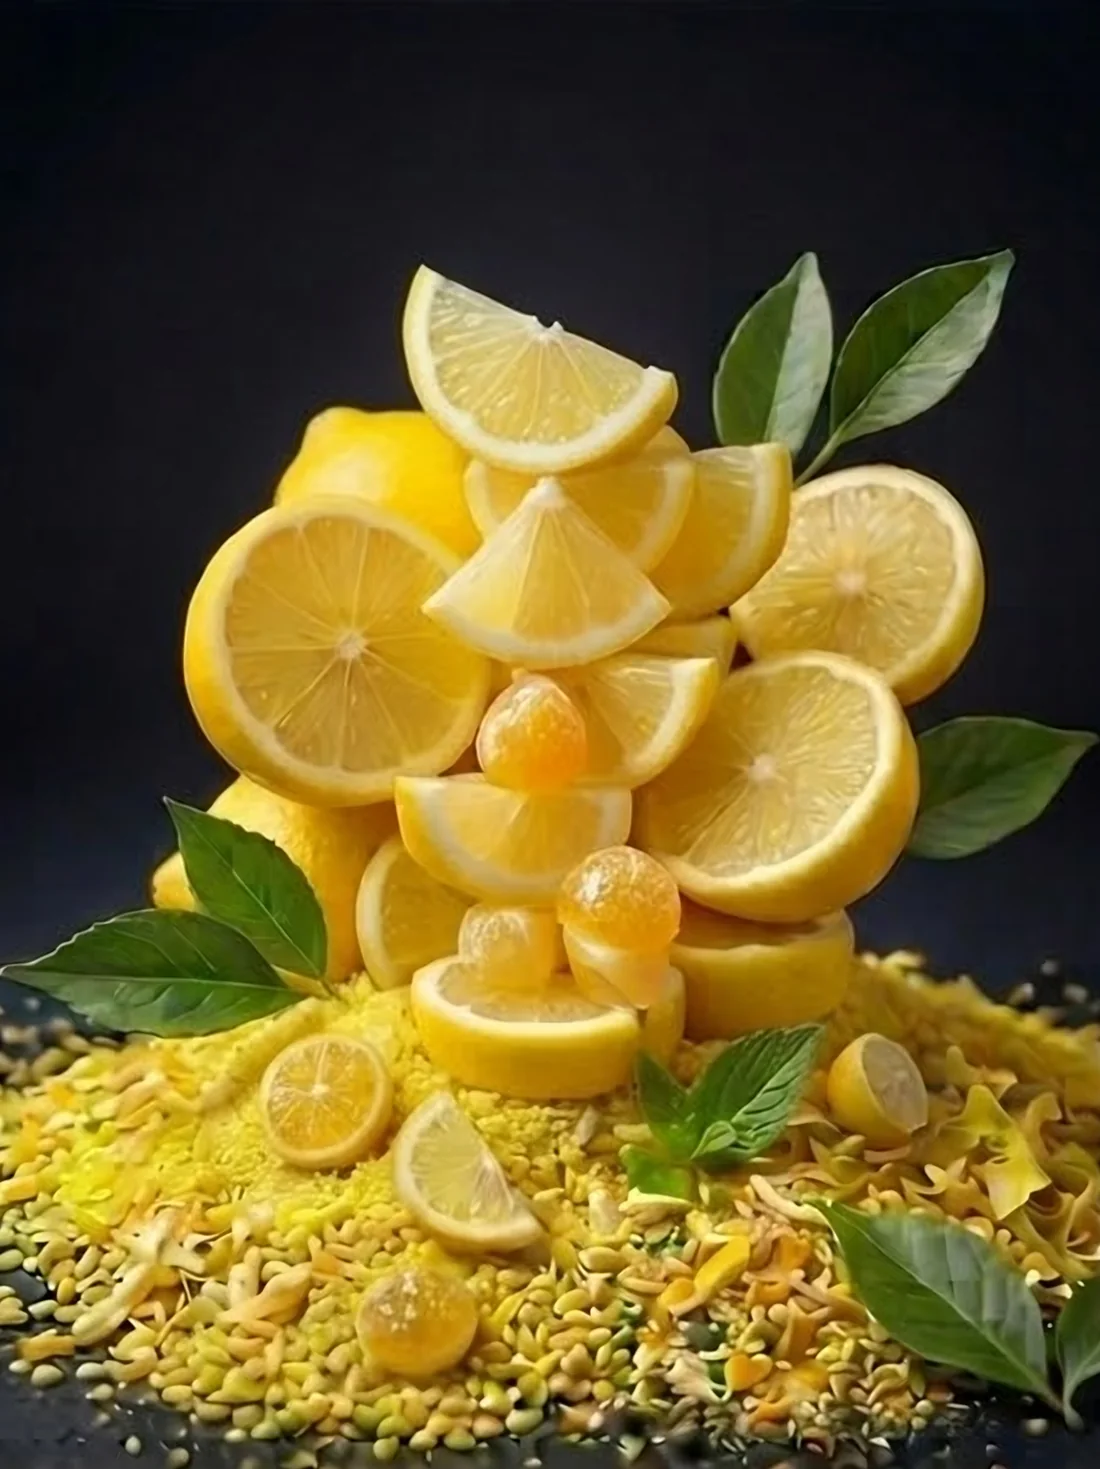
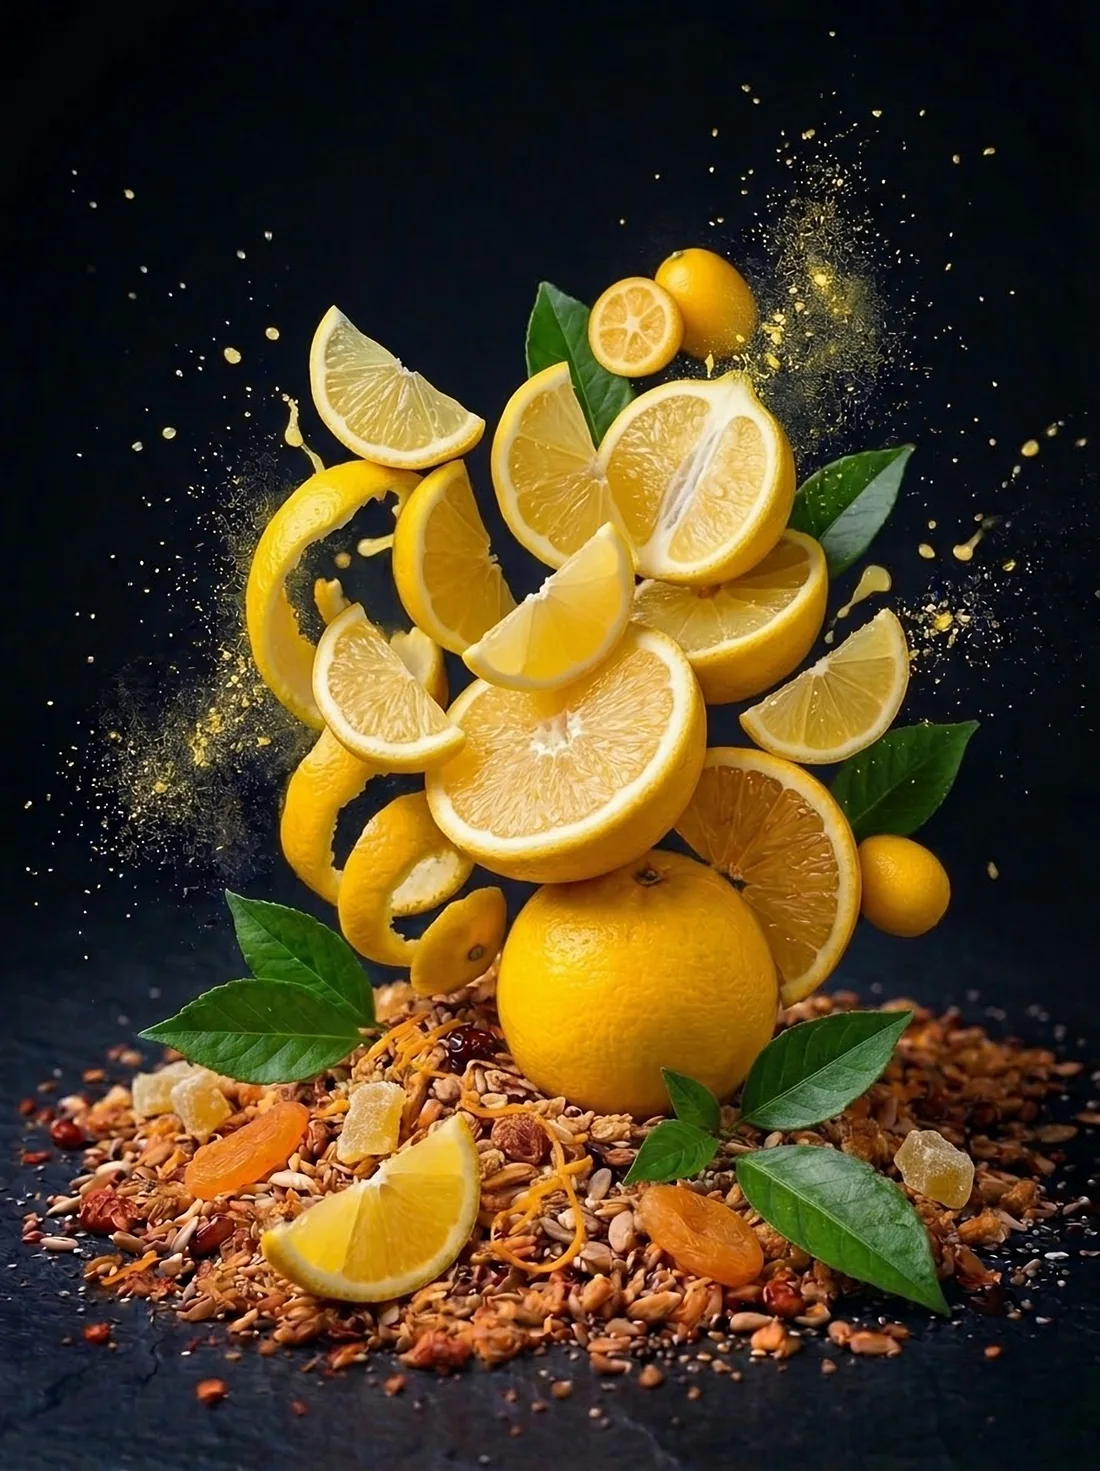
SPIRULI: neue Zutatenfotos, Manifest als Foto-Abschnitt
Statt des langen Wort-für-Wort-Texts drei kurze Aussagen (Kein
Energy-Drink. / Kein Smoothie. / Ein Mehrwertgetränk.) über
bildschirmfüllenden Fotos von Zitrone, Orange und Holunder, die beim
Scrollen ineinander übergehen. Zutatenkarten mit den neuen Fotos.

Claude-Session: https://claude.ai/code/session_01GvAmwFmc9i5CyZBZw1U34q

diff --git a/spiruli/components/sections/Manifest.tsx b/spiruli/components/sections/Manifest.tsx
@@ -3,46 +3,104 @@
 import { useEffect, useRef } from "react";
 import { onFrame } from "@/lib/ticker";
 
-const text =
-  "SPIRULI ist kein Energy-Drink und kein grüner Smoothie. Es ist das vegane, natürliche Mehrwertgetränk auf Holunder-Zitrus-Algen-Basis – mit Vitaminen der B-Gruppe und Aminosäuren aus rein pflanzlicher Herkunft.";
-const highlight = new Set(["Mehrwertgetränk", "Holunder-Zitrus-Algen-Basis", "B-Gruppe", "Aminosäuren", "pflanzlicher"]);
+const slides = [
+  {
+    title: "Kein Energy-Drink.",
+    text: "Kein Kick, kein Absturz – sondern Zutaten, die man kennt: Holunder, Zitrus und Alge.",
+    img: "/photos/zitrone-xl.webp",
+    accent: "text-[#f3d64a]",
+  },
+  {
+    title: "Kein Smoothie.",
+    text: "Kein Pulver, kein Brei. Spritzig, leicht und mit rund 43 kcal pro Dose.",
+    img: "/photos/orange-xl.webp",
+    accent: "text-[#ff9b3d]",
+  },
+  {
+    title: "Ein Mehrwert\u00ADgetränk.",
+    text: "Vegan, fermentiert und mit Vitaminen der B-Gruppe sowie Aminosäuren aus rein pflanzlicher Herkunft.",
+    img: "/photos/holunder-xl.webp",
+    accent: "text-fresh",
+  },
+];
 
-/** Pinned statement whose words light up one by one as you scroll through it. */
+const clamp = (v: number) => Math.min(1, Math.max(0, v));
+
+/**
+ * Three short statements, pinned: each one rises in over its own full-screen
+ * ingredient photo while the previous fades out.
+ */
 export default function Manifest() {
   const section = useRef<HTMLElement>(null);
-  const words = text.split(" ");
+  const layers = useRef<(HTMLDivElement | null)[]>([]);
+  const bars = useRef<(HTMLSpanElement | null)[]>([]);
 
   useEffect(() => {
     const el = section.current!;
-    const spans = Array.from(el.querySelectorAll<HTMLSpanElement>("[data-w]"));
-    if (window.matchMedia("(prefers-reduced-motion: reduce)").matches) {
-      spans.forEach((s) => (s.style.opacity = "1"));
-      return;
-    }
+    const still = window.matchMedia("(prefers-reduced-motion: reduce)").matches;
+    let p = 0;
     const tick = () => {
       const r = el.getBoundingClientRect();
-      if (r.bottom > 0 && r.top < innerHeight) {
-        const p = Math.min(1, Math.max(0, -r.top / (r.height - innerHeight)));
-        const lit = p * (spans.length + 4);
-        spans.forEach((s, i) => (s.style.opacity = String(0.14 + 0.86 * Math.min(1, Math.max(0, lit - i)))));
-      }
+      const goal = clamp(-r.top / (r.height - innerHeight));
+      p = still ? goal : p + (goal - p) * 0.12;
+      const pos = p * slides.length; // 0..3
+      layers.current.forEach((ly, i) => {
+        if (!ly) return;
+        // Fully visible during its own third; crossfades with the next over the last quarter.
+        const fadeIn = i === 0 ? 1 : clamp((pos - i) / 0.25 + 1);
+        const fadeOut = i === slides.length - 1 ? 1 : clamp((i + 1 - pos) / 0.25);
+        const vis = fadeIn * fadeOut;
+        const local = clamp(pos - i);
+        ly.style.opacity = String(vis);
+        ly.style.setProperty("--in", String(clamp((pos - i + 0.35) / 0.4)));
+        ly.style.setProperty("--zoom", String(1.15 - 0.15 * local));
+        const bar = bars.current[i];
+        if (bar) bar.style.transform = `scaleX(${local})`;
+      });
     };
-    const stop = onFrame(el, tick);
-    return stop;
+    return onFrame(el, tick);
   }, []);
 
   return (
-    <section ref={section} className="relative z-10 h-[260vh] bg-ink text-mist">
-      <div className="sticky top-0 flex h-[100svh] items-center">
-        <div className="wrap">
-          <p className="label text-fresh">Worum es geht</p>
-          <p className="mt-8 max-w-6xl font-display text-[8.5vw] font-extrabold leading-[1.02] tracking-tight sm:text-[5.6vw] lg:text-[4.6vw]">
-            {words.map((w, i) => (
-              <span key={i} data-w className={`transition-opacity duration-200 ${highlight.has(w) ? "text-fresh" : ""}`} style={{ opacity: 0.14 }}>
-                {w}{" "}
+    <section ref={section} className="relative z-10 h-[330vh] bg-black text-mist">
+      <div className="sticky top-0 h-[100svh] overflow-hidden">
+        {slides.map((s, i) => (
+          <div key={s.title} ref={(el) => void (layers.current[i] = el)} className="absolute inset-0" style={{ opacity: i === 0 ? 1 : 0 }}>
+            <img
+              src={s.img}
+              alt=""
+              loading={i === 0 ? "eager" : "lazy"}
+              className="absolute inset-0 h-full w-full object-cover object-[50%_40%]"
+              style={{ transform: "scale(var(--zoom, 1.15))" }}
+            />
+            <div aria-hidden className="absolute inset-0 bg-gradient-to-t from-black/85 via-black/30 to-black/40" />
+            <div className="wrap relative flex h-full flex-col justify-end pb-20 sm:pb-24">
+              <h2
+                className={`headline max-w-5xl text-[15vw] sm:text-[10vw] lg:text-[8vw] ${s.accent}`}
+                style={{ opacity: "var(--in, 0)", transform: "translateY(calc((1 - var(--in, 0)) * 60px))" }}
+              >
+                {s.title}
+              </h2>
+              <p
+                className="mt-6 max-w-lg text-lg leading-relaxed text-mist/85 sm:text-xl"
+                style={{ opacity: "var(--in, 0)", transform: "translateY(calc((1 - var(--in, 0)) * 30px))" }}
+              >
+                {s.text}
+              </p>
+            </div>
+          </div>
+        ))}
+
+        {/* Progress: one bar per statement. */}
+        <div className="wrap pointer-events-none absolute inset-x-0 top-24 flex items-center gap-4 sm:top-28">
+          <p className="label text-mist/70">Worum es geht</p>
+          <div className="flex flex-1 gap-2">
+            {slides.map((s, i) => (
+              <span key={s.title} className="h-0.5 flex-1 overflow-hidden rounded-full bg-mist/20">
+                <span ref={(el) => void (bars.current[i] = el)} className="block h-full origin-left bg-mist" style={{ transform: "scaleX(0)" }} />
               </span>
             ))}
-          </p>
+          </div>
         </div>
       </div>
     </section>

diff --git a/spiruli/components/sections/Features.tsx b/spiruli/components/sections/Features.tsx
@@ -20,7 +20,7 @@ const features = [
     text: "Gibt den beerigen, samtigen Grundton. Die Beeren sind laut Hersteller pestizidfrei und stammen aus Mitteleuropa.",
     tags: ["Beerig", "Samtig", "Aus Mitteleuropa"],
     img: "/photos/holunder.webp",
-    alt: "Dunkle Beeren und Fruchtstücke vor dunklem Hintergrund",
+    alt: "Holunderblüten, Holunderbeeren und Blätter vor dunklem Hintergrund",
     cls: "bg-berry text-mist",
     accent: "text-[#e7b8dc]",
     tag: "border-mist/25",
@@ -32,7 +32,7 @@ const features = [
     text: "Frische Säure für einen klaren, spritzigen Abgang – zusammen mit einem Schuss Kohlensäure.",
     tags: ["Frisch", "Spritzig", "Vitamin C"],
     img: "/photos/zitrone.webp",
-    alt: "Zitronenscheiben mit Blättern auf dunklem Stein",
+    alt: "Zitronenscheiben und Schalen fliegen vor dunklem Hintergrund",
     cls: "bg-citrus text-ink",
     accent: "text-[#a88a0c]",
     tag: "border-ink/20",
@@ -44,7 +44,7 @@ const features = [
     text: "Rundet ab und nimmt der Zitrone die Spitze. Gesüßt wird nur mit Agavensirup – rund 22 kcal pro 100 ml, vegan und glutenfrei.",
     tags: ["Fruchtig", "Agavensirup", "22 kcal / 100 ml"],
     img: "/photos/orange.webp",
-    alt: "Orangenspalten mit Blättern auf dunklem Stein",
+    alt: "Orangen, Spalten und Schalen fliegen vor dunklem Hintergrund",
     cls: "bg-[#f6dcc2] text-ink",
     accent: "text-[#c8611b]",
     tag: "border-ink/20",

diff --git a/spiruli/README.md b/spiruli/README.md
@@ -4,7 +4,7 @@ Next.js 16 + Tailwind, helles Design mit Algen-Farben und Bricolage Grotesque.
 
 ## Aufbau
 Hero („Grüne Balance“, Dose steigt ein, freigestellte Zutaten schweben mit Maus-/Scroll-Parallaxe) → Getränk (Dose landet im Rahmen)
-→ Manifest (Text füllt sich Wort für Wort) → „Alles drin.“ (angepinnt: die Dose zerfällt beim Scrollen in ihre Zutaten, mit Beschriftungen)
+→ Manifest (drei kurze Aussagen über bildschirmfüllenden Zutatenfotos, angepinnt) → „Alles drin.“ (angepinnt: die Dose zerfällt beim Scrollen in ihre Zutaten, mit Beschriftungen)
 → Laufband → Zutaten (übereinander gleitende Fotokarten) → So entsteht SPIRULI (Schritte leuchten auf)
 → Analytisch nachgewiesen (25 Nährstoffe als gegenläufige Bänder) → Vier Gründe (läuft seitwärts) → „Der Balancer“ (Zoom durch den Schriftzug ins Foto)
 → Nährwerte (dunkle Kacheln) → Fragen → Finale (Zutaten kreisen um die Dose, PZN) → Footer.
